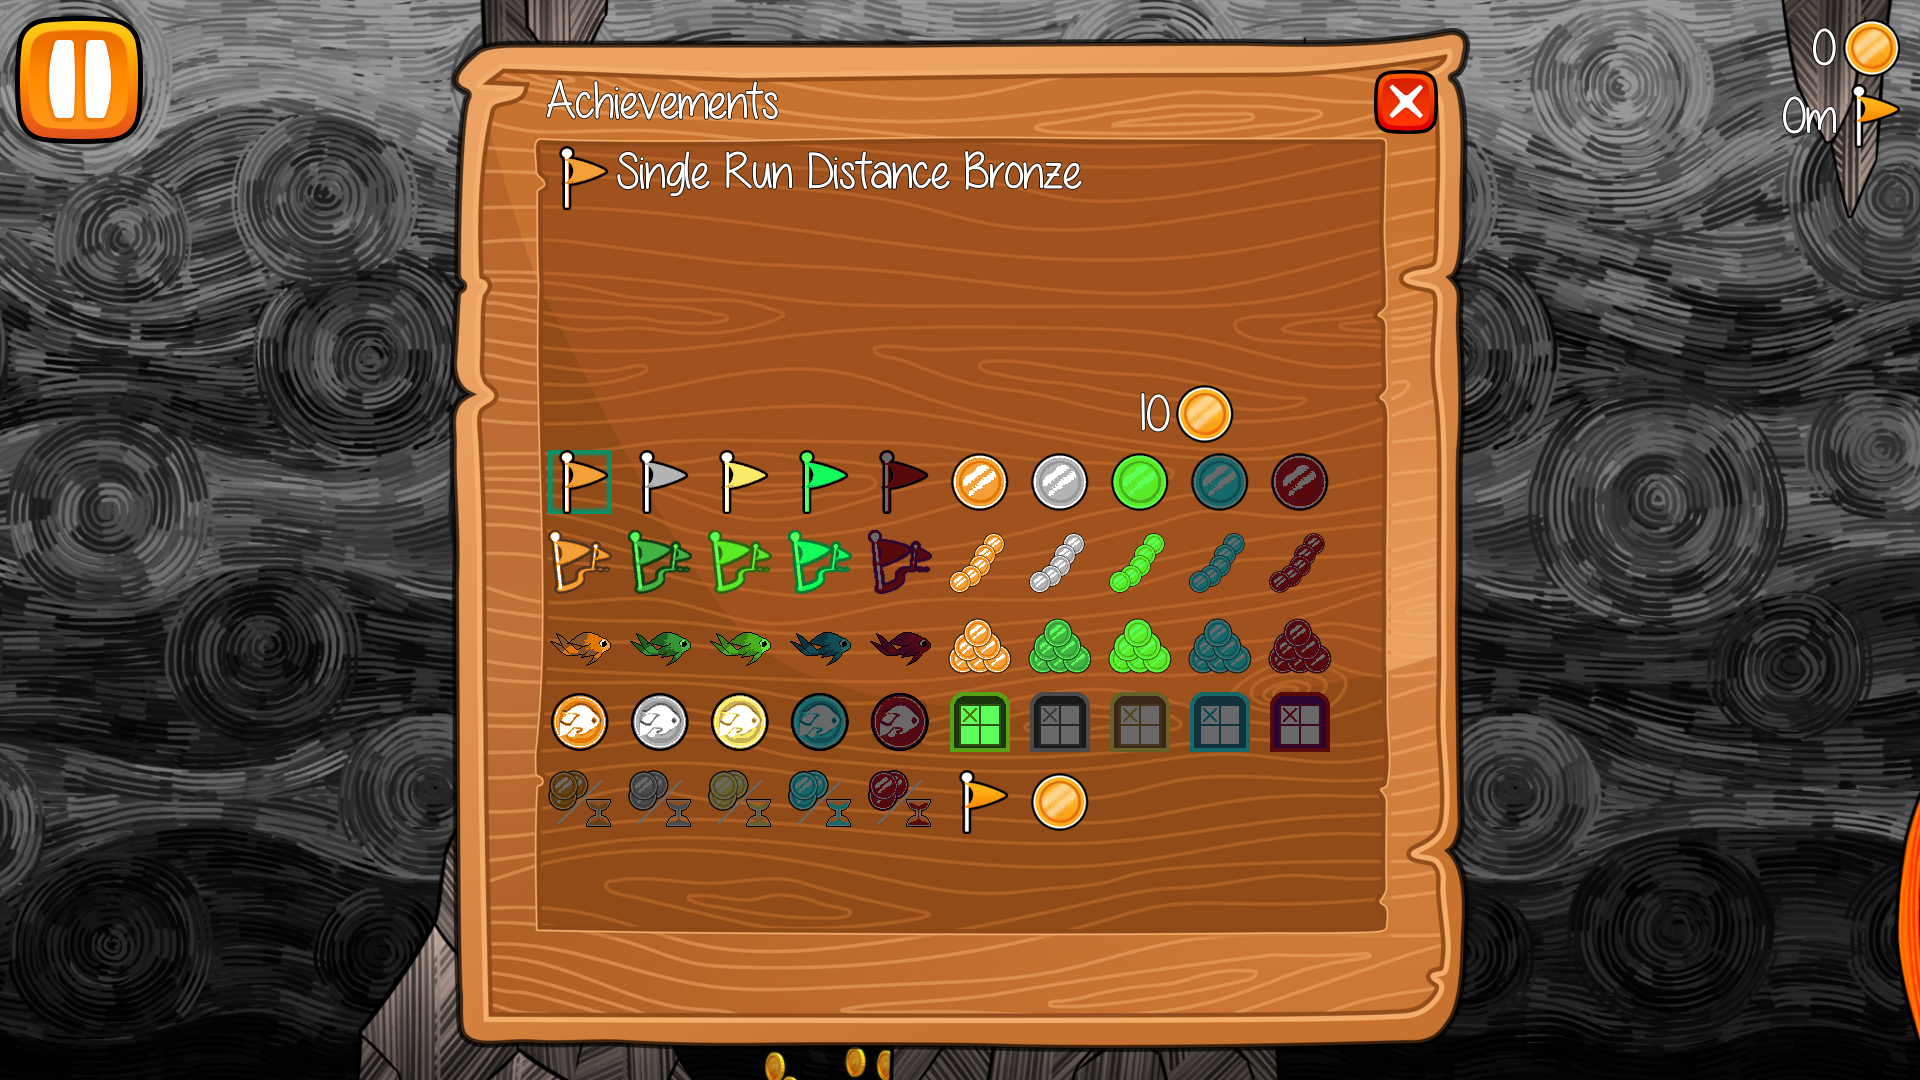
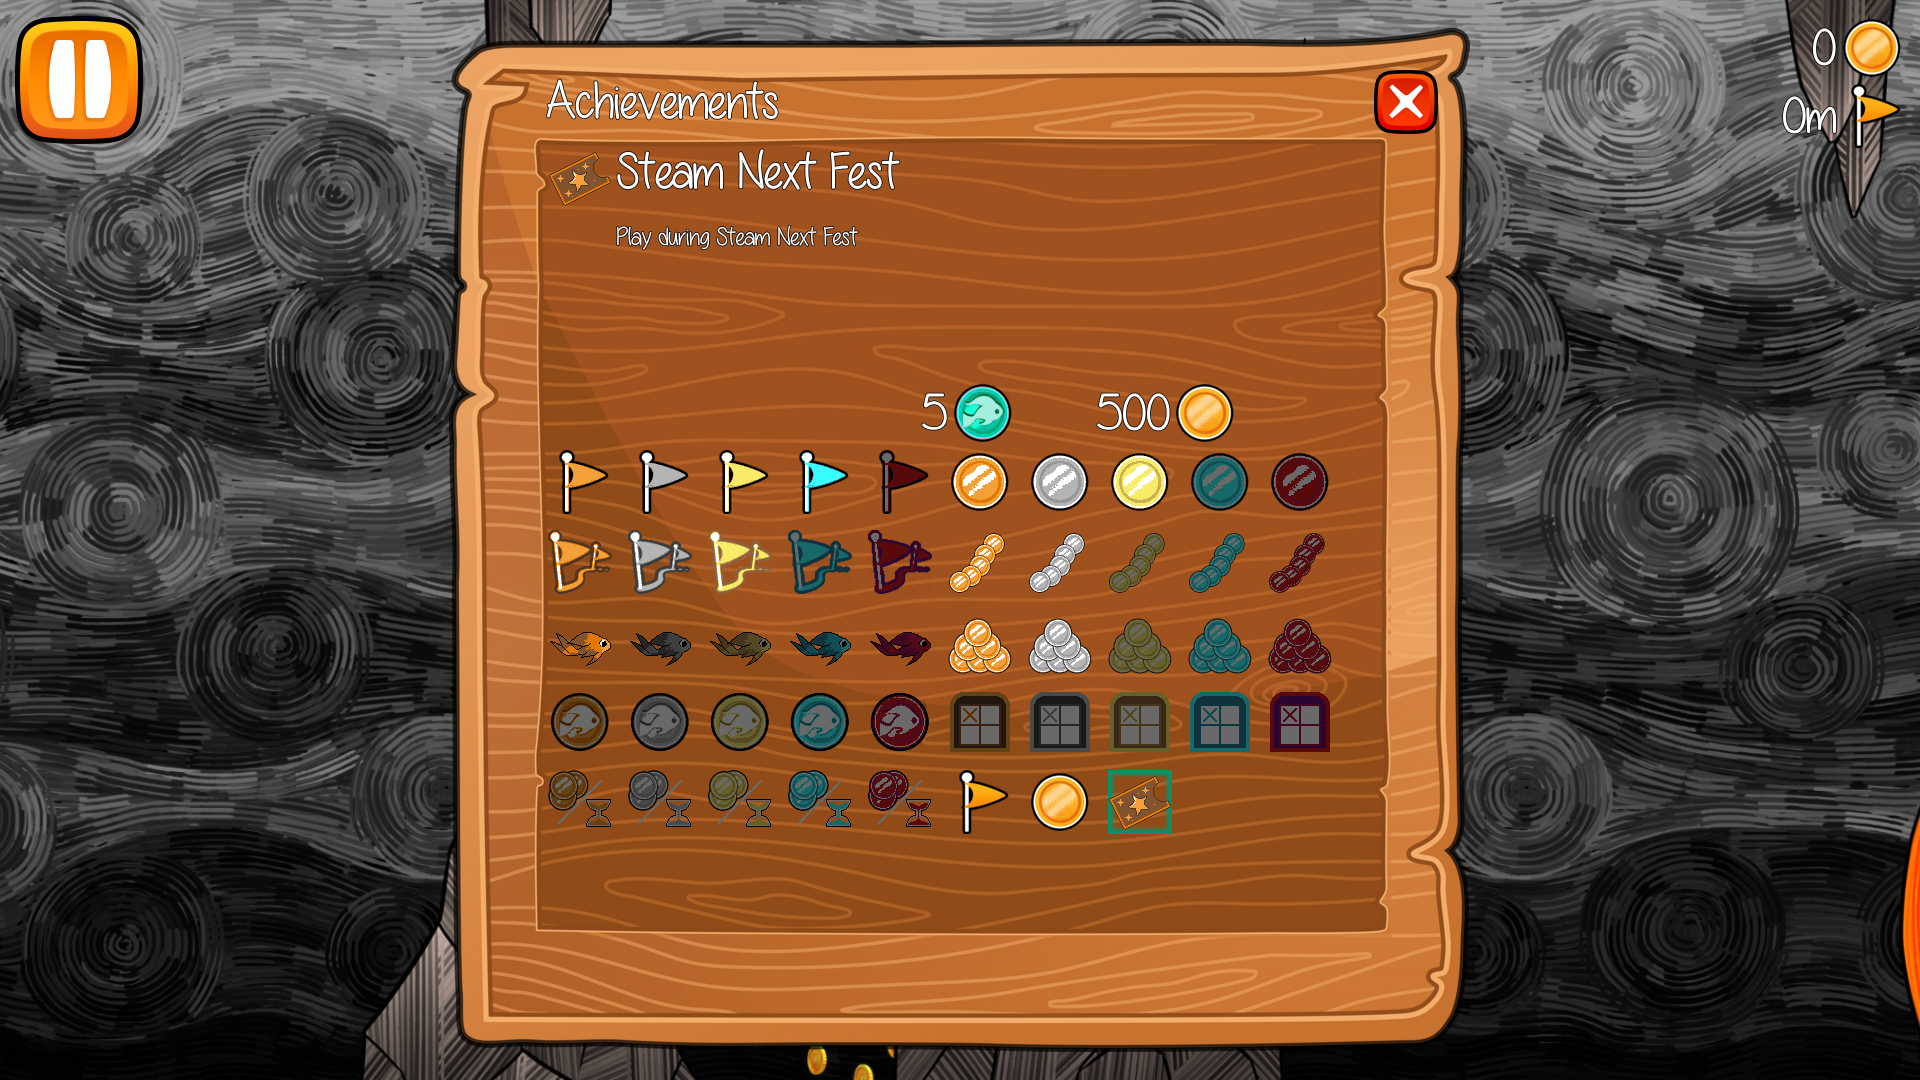
[S06E03] + Add achievement for Steam Next Fest.

diff --git a/TODO.md b/TODO.md
@@ -4,7 +4,7 @@
 
 
 - [ ] Release: Fix MarketingScreenshots
-	- [ ] Task: Add a steam next fest achievement
+	- [ ] Task: Ensure bought skills on Skill Upgrade Dialog is fresh/clean for MarketingScreenshots
 
 - [?] Bug: Fix screen/window resizing from script -> Works on other machines
 
@@ -20,6 +20,8 @@
 
 ## Next
 
+- [ ] Steam: Limit max skill upgrades for demo
+
 - [ ] Verify: Play X days in a row Achievement
 
 
@@ -29,7 +31,8 @@
 - [ ] Story: General cleanup pass
 
 ## Todo Steam Store 
-- [ ] Steam: Limit max skill upgrades for demo
+- [ ] Steam: Fix `IS_STEAM` counter
+- [ ] Steam: Create steam demo version
 - [ ] Steam: Add steam fest achievement, and use it for screenshot
 - [ ] Steam: Fix close button on achievements & skill upgrades, and retake screenshots
 - [ ] Steam: Reset achievments for steam screenshot
@@ -184,6 +187,7 @@
 #### S06E03
 - [x] Task: Make sure close buttons on big frame dialog align
 - [x] Task: Make sure title texts on big frame dialog align
+- [x] Task: Add a steam next fest achievement
 
 ### 2025-07-30
 #### S06E02
